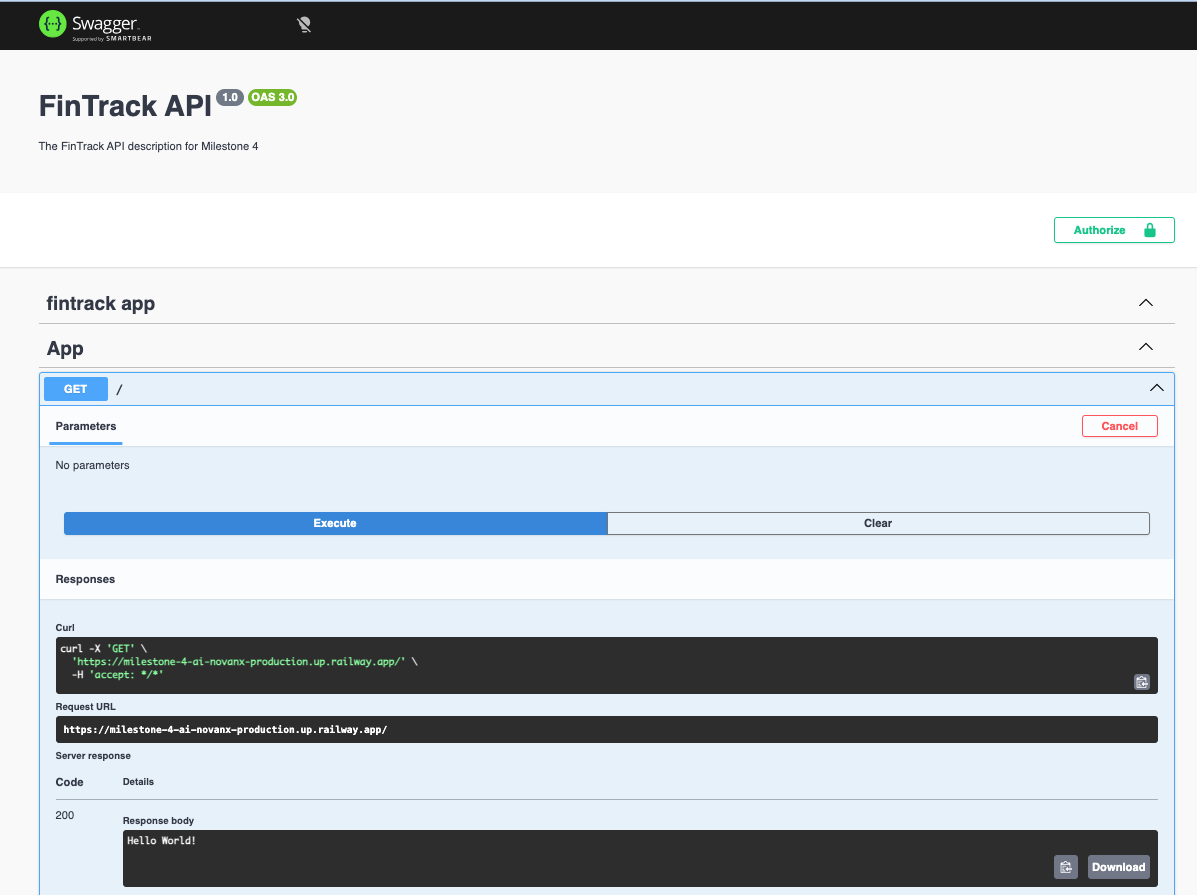
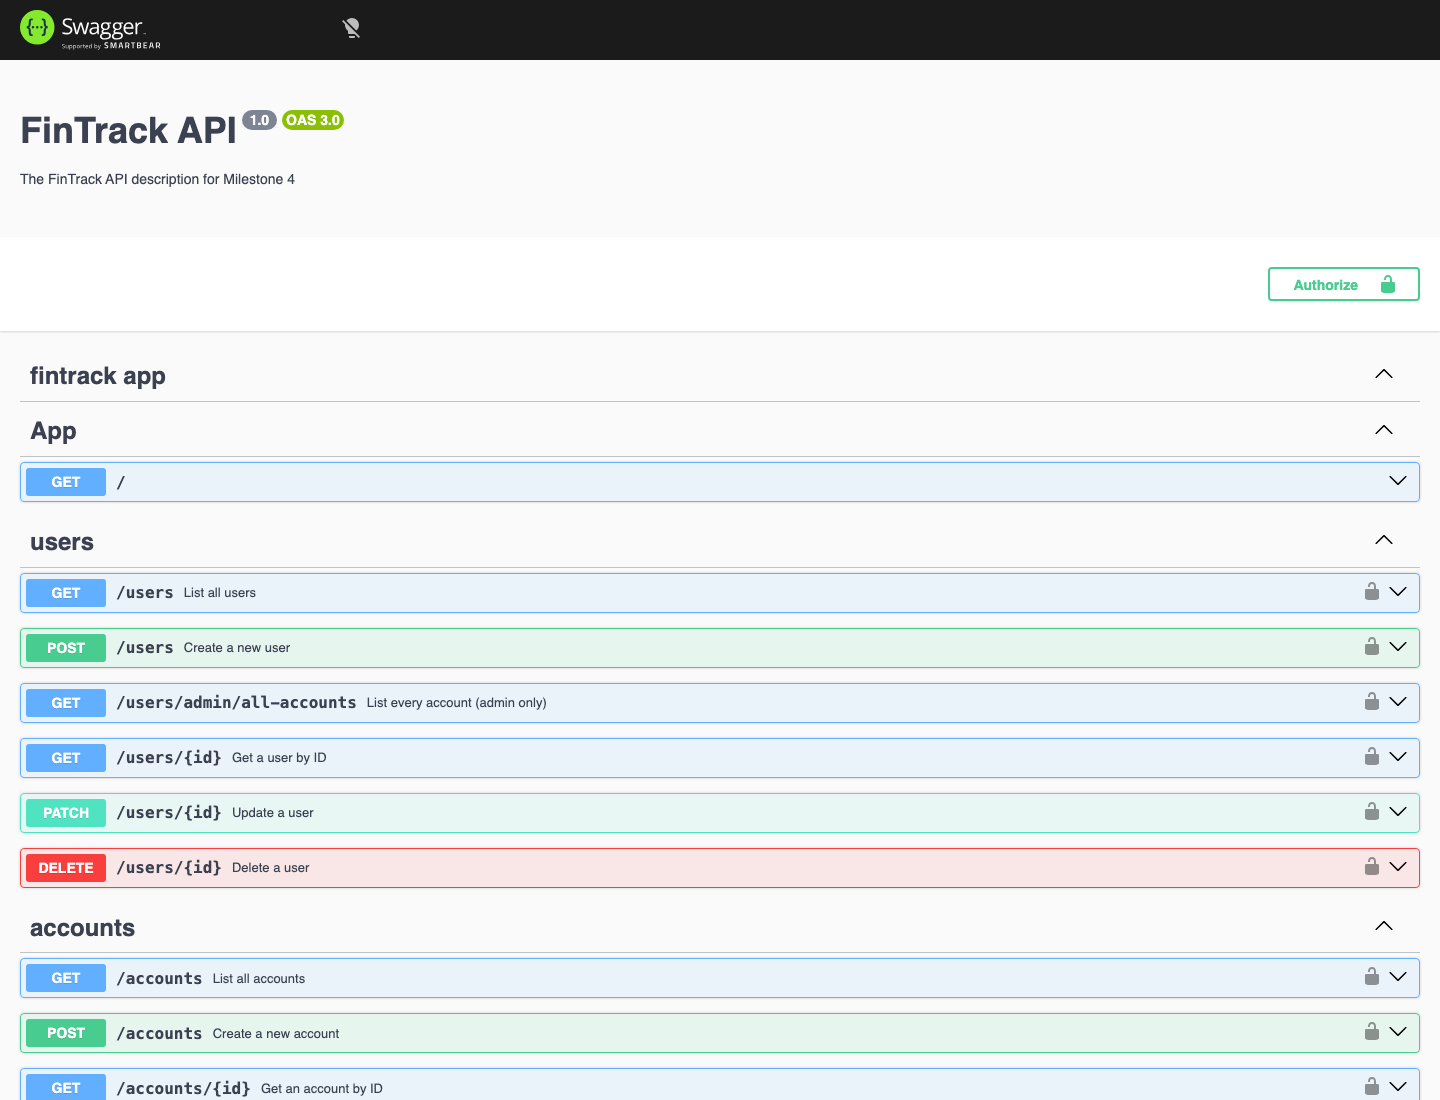
feat(portfolio): add back-to-top navigation to project sidebars
- add reusable shadcn-style back-to-top button
- position navigation alongside Back to projects
- apply consistent styling across all project pages
- update FinTrack Railway smoke-test evidence

diff --git a/src/components/ui/button.js b/src/components/ui/button.js
@@ -1,0 +1,42 @@
+import React from 'react';
+import PropTypes from 'prop-types';
+import { cn } from '../../lib/utils';
+
+const variantClasses = {
+  default: 'bg-primary text-primary-foreground shadow hover:bg-primary/90',
+  outline:
+    'border border-input bg-background shadow-sm hover:bg-accent hover:text-accent-foreground',
+  ghost: 'hover:bg-accent hover:text-accent-foreground',
+};
+
+const sizeClasses = {
+  default: 'h-9 px-4 py-2',
+  icon: 'h-9 w-9',
+};
+
+const Button = React.forwardRef(
+  ({ className, variant = 'default', size = 'default', type = 'button', ...props }, ref) => (
+    <button
+      ref={ref}
+      type={type}
+      data-slot="button"
+      className={cn(
+        'inline-flex items-center justify-center gap-2 whitespace-nowrap rounded-md text-sm font-medium transition-colors focus-visible:outline-none focus-visible:ring-2 focus-visible:ring-ring focus-visible:ring-offset-2 disabled:pointer-events-none disabled:opacity-50',
+        variantClasses[variant],
+        sizeClasses[size],
+        className,
+      )}
+      {...props}
+    />
+  ),
+);
+
+Button.displayName = 'Button';
+Button.propTypes = {
+  className: PropTypes.string,
+  variant: PropTypes.oneOf(['default', 'outline', 'ghost']),
+  size: PropTypes.oneOf(['default', 'icon']),
+  type: PropTypes.oneOf(['button', 'submit', 'reset']),
+};
+
+export { Button };

diff --git a/src/pages/nexread.css b/src/pages/nexread.css
@@ -45,6 +45,27 @@
   color: #5eead4 !important;
   transform: translateX(-3px);
 }
+.sidebar-actions {
+  align-items: center;
+  display: block;
+  margin-top: 28px;
+  min-height: 36px;
+  padding-right: 178px;
+  position: relative;
+  width: 100%;
+}
+.sidebar-actions .back-link {
+  line-height: 36px;
+  margin-top: 0;
+  white-space: nowrap;
+}
+.sidebar-actions .back-to-top-button {
+  margin: 0;
+  position: absolute;
+  right: 0;
+  top: 0;
+  white-space: nowrap;
+}
 .nexread-article {
   margin-top: 64px;
   min-width: 0;
@@ -803,6 +824,39 @@
   color: inherit;
   font-size: inherit;
   font-weight: 400;
+}
+.back-to-top-button {
+  align-self: flex-start;
+  background: transparent;
+  border: 0;
+  border-radius: 0;
+  box-shadow: none;
+  color: #cbd5e1;
+  flex: 0 0 auto;
+  font-size: 14px;
+  font-weight: 600;
+  gap: 5px;
+  height: 36px;
+  padding: 0;
+  transition: color 160ms ease, transform 160ms ease;
+  width: auto;
+}
+.back-to-top-button:hover {
+  background: transparent;
+  color: #5eead4;
+  transform: translateX(-3px);
+}
+.back-to-top-button:focus-visible {
+  outline: 2px solid #5eead4;
+  outline-offset: 4px;
+}
+.back-to-top-button svg {
+  height: 16px;
+  stroke: currentColor;
+  stroke-linecap: round;
+  stroke-linejoin: round;
+  stroke-width: 2;
+  width: 16px;
 }
 .demo-access dl {
   display: grid;

diff --git a/src/components/back-to-top-button.js b/src/components/back-to-top-button.js
@@ -1,0 +1,38 @@
+import React from 'react';
+import PropTypes from 'prop-types';
+import { Button } from './ui/button';
+
+const ArrowUpIcon = () => (
+  <svg aria-hidden="true" viewBox="0 0 24 24" fill="none">
+    <path d="m5 12 7-7 7 7M12 5v14" />
+  </svg>
+);
+
+const BackToTopButton = ({ targetId = 'overview' }) => {
+  const scrollToTop = () => {
+    const target = document.getElementById(targetId);
+
+    if (target) {
+      target.scrollIntoView({ behavior: 'smooth', block: 'start' });
+      window.history.replaceState(null, '', `#${targetId}`);
+    }
+  };
+
+  return (
+    <Button
+      className="back-to-top-button"
+      variant="outline"
+      onClick={scrollToTop}
+      aria-label="Back to top page"
+      title="Back to top page">
+      <ArrowUpIcon />
+      <span>Back to top page</span>
+    </Button>
+  );
+};
+
+BackToTopButton.propTypes = {
+  targetId: PropTypes.string,
+};
+
+export default BackToTopButton;

diff --git a/src/pages/fintrack.js b/src/pages/fintrack.js
@@ -2,6 +2,7 @@ import React from 'react';
 import { Link } from 'gatsby';
 import { Helmet } from 'react-helmet';
 import PropTypes from 'prop-types';
+import BackToTopButton from '../components/back-to-top-button';
 import './portfolio.css';
 import './nexread.css';
 
@@ -229,9 +230,12 @@ const FinTrackPage = () => (
             </a>
           </nav>
         </div>
-        <Link className="back-link" to="/#projects">
-          ← Back to projects
-        </Link>
+        <div className="sidebar-actions">
+          <Link className="back-link" to="/#projects">
+            ← Back to projects
+          </Link>
+          <BackToTopButton />
+        </div>
       </aside>
 
       <main className="nexread-article">

diff --git a/src/pages/revoshop.js b/src/pages/revoshop.js
@@ -2,6 +2,7 @@ import React from 'react';
 import { Link } from 'gatsby';
 import { Helmet } from 'react-helmet';
 import PropTypes from 'prop-types';
+import BackToTopButton from '../components/back-to-top-button';
 import './portfolio.css';
 import './nexread.css';
 
@@ -229,9 +230,12 @@ const RevoShopPage = () => (
             </a>
           </nav>
         </div>
-        <Link className="back-link" to="/#projects">
-          ← Back to projects
-        </Link>
+        <div className="sidebar-actions">
+          <Link className="back-link" to="/#projects">
+            ← Back to projects
+          </Link>
+          <BackToTopButton />
+        </div>
       </aside>
 
       <main className="nexread-article">

diff --git a/src/pages/nexread.js b/src/pages/nexread.js
@@ -2,6 +2,7 @@ import React from 'react';
 import { Link } from 'gatsby';
 import { Helmet } from 'react-helmet';
 import PropTypes from 'prop-types';
+import BackToTopButton from '../components/back-to-top-button';
 import './portfolio.css';
 import './nexread.css';
 
@@ -369,9 +370,12 @@ const NexReadPage = () => (
             </a>
           </nav>
         </div>
-        <Link className="back-link" to="/#projects">
-          ← Back to projects
-        </Link>
+        <div className="sidebar-actions">
+          <Link className="back-link" to="/#projects">
+            ← Back to projects
+          </Link>
+          <BackToTopButton />
+        </div>
       </aside>
 
       <main className="nexread-article">

diff --git a/src/pages/revofun.js b/src/pages/revofun.js
@@ -2,6 +2,7 @@ import React from 'react';
 import { Link } from 'gatsby';
 import { Helmet } from 'react-helmet';
 import PropTypes from 'prop-types';
+import BackToTopButton from '../components/back-to-top-button';
 import './portfolio.css';
 import './nexread.css';
 
@@ -209,9 +210,12 @@ const RevoFunPage = () => (
             </a>
           </nav>
         </div>
-        <Link className="back-link" to="/#projects">
-          ← Back to projects
-        </Link>
+        <div className="sidebar-actions">
+          <Link className="back-link" to="/#projects">
+            ← Back to projects
+          </Link>
+          <BackToTopButton />
+        </div>
       </aside>
 
       <main className="nexread-article">

diff --git a/src/pages/portfolio.css b/src/pages/portfolio.css
@@ -1092,6 +1092,20 @@ html:not([data-theme='light']) .project-card:focus-within {
   transform: translate(0, 0);
 }
 
+.home-link {
+  color: #cbd5e1 !important;
+  display: inline-block;
+  font-size: 14px;
+  font-weight: 600;
+  transition: color 160ms ease, transform 160ms ease;
+  width: fit-content;
+}
+
+.home-link:hover {
+  color: #5eead4 !important;
+  transform: translateX(-3px);
+}
+
 .form-message {
   color: #64748b;
   font-size: 14px;

diff --git a/src/pages/index.js b/src/pages/index.js
@@ -1003,6 +1003,9 @@ const ContactForm = () => {
       <button type="submit" className="contact-submit" disabled={isLoading}>
         {isLoading ? 'Sending...' : 'Send Message'}
       </button>
+      <a className="home-link" href="#about">
+        ↑ Home
+      </a>
       {statusMessage && (
         <p
           className={`form-message ${
